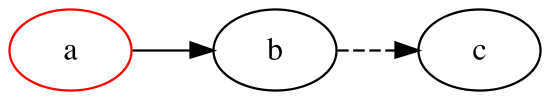
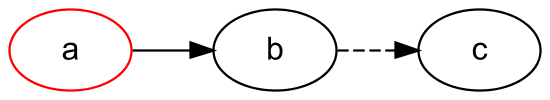
make SingleAttributes public and improve README.md for attributes

diff --git a/graphviz-java/src/test/java/guru/nidi/graphviz/model/ReadmeTest.java b/graphviz-java/src/test/java/guru/nidi/graphviz/model/ReadmeTest.java
@@ -24,6 +24,7 @@ import org.junit.jupiter.api.condition.DisabledIfEnvironmentVariable;
 import java.awt.image.BufferedImage;
 import java.io.*;
 
+import static guru.nidi.graphviz.attribute.Attributes.attr;
 import static guru.nidi.graphviz.attribute.Label.Justification.LEFT;
 import static guru.nidi.graphviz.attribute.Rank.RankDir.LEFT_TO_RIGHT;
 import static guru.nidi.graphviz.attribute.Records.rec;
@@ -48,12 +49,16 @@ class ReadmeTest {
         //## basic
         Graph g = graph("example1").directed()
                 .graphAttr().with(Rank.dir(LEFT_TO_RIGHT))
+                .nodeAttr().with(Font.name("arial"))
+                .linkAttr().with("class", "link-class")
                 .with(
                         node("a").with(Color.RED).link(node("b")),
-                        node("b").link(to(node("c")).with(Style.DASHED))
+                        node("b").link(
+                                to(node("c")).with(attr("weight", 5), Style.DASHED)
+                        )
                 );
         Graphviz.fromGraph(g).height(100).render(Format.PNG).toFile(new File("example/ex1.png"));
-        //## end
+        //##
     }
 
     @Test
@@ -62,7 +67,7 @@ class ReadmeTest {
         MutableGraph g = mutGraph("example1").setDirected(true).add(
                 mutNode("a").add(Color.RED).addLink(mutNode("b")));
         Graphviz.fromGraph(g).width(200).render(Format.PNG).toFile(new File("example/ex1m.png"));
-        //## end
+        //##
     }
 
     @Test
@@ -74,7 +79,7 @@ class ReadmeTest {
             mutNode("a").addLink(mutNode("b"));
         });
         Graphviz.fromGraph(g).width(200).render(Format.PNG).toFile(new File("example/ex1i.png"));
-        //## end
+        //##
     }
 
     @Test
@@ -100,7 +105,7 @@ class ReadmeTest {
                 init.link(mkString));
 
         Graphviz.fromGraph(g).width(900).render(Format.PNG).toFile(new File("example/ex2.png"));
-        //## end
+        //##
     }
 
     @Test
@@ -127,7 +132,7 @@ class ReadmeTest {
                         node2.link(between(port("p"), node6.port(NORTH_WEST))),
                         node4.link(between(port("p"), node7.port(SOUTH_WEST))));
         Graphviz.fromGraph(g).width(900).render(Format.PNG).toFile(new File("example/ex3.png"));
-        //## end
+        //##
     }
 
     @Test
@@ -146,7 +151,7 @@ class ReadmeTest {
                             Style.lineWidth(4).and(Style.FILLED)));
             Graphviz.fromGraph(g).width(700).render(Format.PNG).toFile(new File("example/ex4-2.png"));
         }
-        //## end
+        //##
     }
 
     @Test
@@ -163,7 +168,7 @@ class ReadmeTest {
         String dot = viz.render(Format.DOT).toString();
         String json = viz.engine(Engine.NEATO).render(Format.JSON).toString();
         BufferedImage image = viz.render(Format.PNG).toImage();
-        //## end
+        //##
         end();
         init();
     }
@@ -176,7 +181,7 @@ class ReadmeTest {
         Graphviz g = Graphviz.fromGraph(graph()
                 .with(node(Label.html("<table border='0'><tr><td><img src='graphviz.png' /></td></tr></table>"))));
         g.basedir(new File("example")).render(Format.PNG).toFile(new File("example/ex7.png"));
-        //## img
+        //##
     }
 
     @Test
@@ -185,7 +190,7 @@ class ReadmeTest {
         Graphviz g = Graphviz.fromGraph(graph()
                 .with(node(" ").with(Size.std().margin(.8, .7), Image.of("graphviz.png"))));
         g.basedir(new File("example")).render(Format.PNG).toFile(new File("example/ex8.png"));
-        //## image
+        //##
     }
 
     @Test
@@ -199,7 +204,7 @@ class ReadmeTest {
                                 SvgElementFinder.use(svg, finder -> {
                                     finder.findNode("unicorn").setAttribute("class", "pink");
                                 })));
-        g.basedir(new File("example")).render(Format.PNG).toFile(new File("example/ex9.png"));
-        //## image
+        g.render(Format.PNG).toFile(new File("example/ex9.png"));
+        //##
     }
 }

diff --git a/graphviz-java/src/main/java/guru/nidi/graphviz/attribute/SingleAttributes.java b/graphviz-java/src/main/java/guru/nidi/graphviz/attribute/SingleAttributes.java
@@ -18,7 +18,7 @@ package guru.nidi.graphviz.attribute;
 import java.lang.reflect.Constructor;
 import java.lang.reflect.ParameterizedType;
 
-class SingleAttributes<T, F extends For> implements Attributes<F> {
+public class SingleAttributes<T, F extends For> implements Attributes<F> {
     protected final String key;
     public final T value;
 

diff --git a/README.md b/README.md
@@ -101,21 +101,26 @@ The basic usage is as follows (assuming `import static guru.nidi.graphviz.model.
 ```java
 Graph g = graph("example1").directed()
         .graphAttr().with(Rank.dir(LEFT_TO_RIGHT))
+        .nodeAttr().with(Font.name("arial"))
+        .linkAttr().with("class", "link-class")
         .with(
                 node("a").with(Color.RED).link(node("b")),
-                node("b").link(to(node("c")).with(Style.DASHED))
+                node("b").link(
+                        to(node("c")).with(attr("weight", 5), Style.DASHED)
+                )
         );
 Graphviz.fromGraph(g).height(100).render(Format.PNG).toFile(new File("example/ex1.png"));
 ```
 [//]: # (end)
 <img src="https://rawgit.com/nidi3/graphviz-java/master/graphviz-java/example/ex1.png" height="100">
 
-Global attributes are set using the `graphAttr`, `linkAttr` and `nodeAttr` methods.
-Nodes are styled using the `with` method. 
-To style edges, use the static method `to` which returns a `Link` that also has a `with` method.
-The `with` method accepts predefined attributes like `Style`, `Arrow` or `Shape` 
+- Global attributes are set using the `graphAttr`, `linkAttr` and `nodeAttr` methods.
+- Nodes are styled using the `with` method. 
+- To style edges, use the static method `to` which returns a `Link` that also has a `with` method.
+- The `with` method accepts predefined attributes like `Style`, `Arrow` or `Shape` 
 as well as everything defined in the [Graphviz reference](https://graphviz.gitlab.io/_pages/doc/info/attrs.html)
-e.g. `with("weight", 5)`
+e.g. `with("weight", 5)` or even arbitrary custom attributes.
+- Custom attribute classes can be defined by extending `SingleAttributes` or `MapAttributes`.
  
 **Attention:** `Node a = node("a"); a.with(Color.RED);` Is not working as it might be expected. 
 All "mutating" methods like `with` on nodes, links and graphs create new objects and leave the original object unchanged.
@@ -131,6 +136,11 @@ Graphviz.fromGraph(g).width(200).render(Format.PNG).toFile(new File("example/ex1
 ```
 [//]: # (end)
 <img src="https://rawgit.com/nidi3/graphviz-java/master/graphviz-java/example/ex1m.png" width="100">
+
+The mutable API provides similar functions as the immutable one with slightly different syntax:
+- `mutGraph` instead of `graph`, `mutNode` instead of `node`
+- use setters: `setDirected` instead of `directed`
+- `add` instead of `width`  
 
 ### Imperative
 There is a third possibility to use the API, based on the mutable version.
@@ -380,7 +390,7 @@ Graphviz g = Graphviz.fromGraph(graph)
                         SvgElementFinder.use(svg, finder -> {
                             finder.findNode("unicorn").setAttribute("class", "pink");
                         })));
-g.basedir(new File("example")).render(Format.PNG).toFile(new File("example/ex9.png"));
+g.render(Format.PNG).toFile(new File("example/ex9.png"));
 ```
 [//]: # (end)
 <img src="https://rawgit.com/nidi3/graphviz-java/master/graphviz-java/example/ex9.png" width="200">
